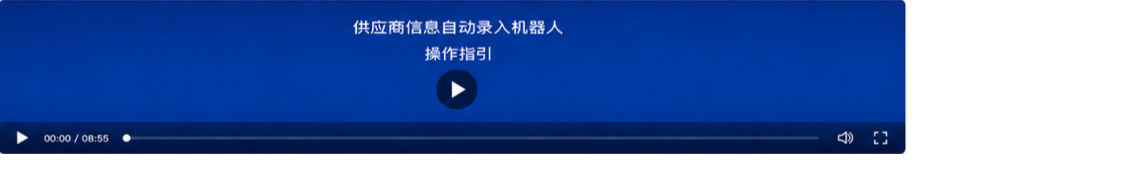
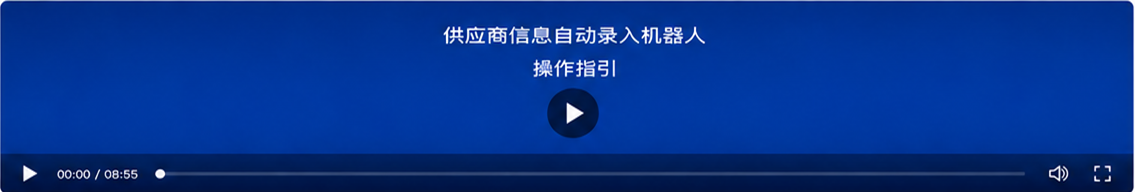
fix: calibrate narrow detail layout

diff --git a/src/style.css b/src/style.css
@@ -15,10 +15,10 @@ button, a { -webkit-tap-highlight-color: transparent; }
 img { display: block; max-width: 100%; }
 p { margin: 0; }
 
-.product-detail{padding:10px 16px 18px;color:#17304f}.product-detail .detail-crumb{height:32px;display:flex;align-items:center;gap:8px;color:#60758e;font-size:11px}.product-detail .detail-hero,.product-detail .detail-panel,.product-detail .detail-comment{background:#fff;border:1px solid #dce6f0;border-radius:7px}.product-detail .detail-hero{position:relative;min-height:245px;padding:24px 25px 13px}.product-detail .detail-hero-main{display:grid;grid-template-columns:86px minmax(0,1fr) 220px;gap:18px;align-items:start}.product-detail .detail-logo{width:82px;height:82px;object-fit:contain;border-radius:10px}.product-detail .detail-title h1{display:inline;margin:0 12px 0 0;color:#171f2e;font-size:21px}.product-detail mark{margin-right:7px;padding:4px 9px;color:#0870e8;background:#eaf3ff;border-radius:4px;font-size:9px}.product-detail .detail-title>p{margin:10px 0;color:#354c68;font-size:11px;line-height:1.8}.product-detail .detail-tags{display:flex;align-items:center;flex-wrap:wrap;gap:7px;margin-top:11px;font-size:11px}.product-detail .detail-hero-side{display:flex;flex-wrap:wrap;justify-content:flex-end;gap:10px}.product-detail .detail-hero-side button{height:34px;min-width:92px;padding:0 15px;color:#086de8;background:#fff;border:1px solid #086de8;border-radius:4px}.product-detail .detail-hero-side button:first-child{color:#fff;background:#086de8}.product-detail .detail-illustration{width:190px;height:112px;margin:8px 0 0 auto;object-fit:contain}.product-detail .detail-metrics{display:grid;grid-template-columns:repeat(7,1fr);gap:0;margin-top:17px;padding-top:14px;border-top:1px solid #e0e7ef}.product-detail .detail-metrics div{min-height:46px;display:grid;grid-template-columns:28px 1fr;align-items:center;padding:0 12px;border-right:1px solid #e1e8ef}.product-detail .detail-metrics div:last-child{border:0}.product-detail .detail-metrics b{grid-row:1/3;width:25px;height:25px;display:grid;place-items:center;color:#086de8;background:#eaf3ff;border-radius:6px;font-size:10px}.product-detail .detail-metrics dt{color:#657991;font-size:9px}.product-detail .detail-metrics dd{margin:0;font-size:11px}.product-detail .detail-panel{margin-top:10px;padding:12px 16px}.product-detail .detail-panel>h2{display:flex;align-items:center;margin:0 0 11px;color:#17304f;font-size:14px}.product-detail .detail-panel>h2::before{content:'';width:4px;height:14px;margin-right:9px;background:#0870ee;border-radius:3px}.product-detail .detail-panel>h2>a{margin-left:auto;color:#0870e8;font-size:10px;font-weight:400}.product-detail .info-grid{display:grid;grid-template-columns:repeat(2,1fr);border:1px solid #dce6ef}.product-detail .info-grid div{min-height:41px;display:grid;grid-template-columns:130px 1fr;align-items:center;border-bottom:1px solid #e0e7ef}.product-detail .info-grid div:nth-child(odd){border-right:1px solid #e0e7ef}.product-detail .info-grid dt{height:100%;display:flex;align-items:center;padding:0 12px;background:#f6f8fb;font-size:10px;font-weight:700}.product-detail .info-grid dd{margin:0;padding:8px 12px;color:#394f69;font-size:10px;line-height:1.6}.product-detail .feature-grid{display:grid;grid-template-columns:repeat(2,1fr);gap:13px 28px}.product-detail .feature-grid article{display:grid;grid-template-columns:31px 110px 1fr;align-items:center;min-height:35px;font-size:10px}.product-detail .feature-grid article>b:first-child{width:25px;height:25px;display:grid;place-items:center;color:#086de8;background:#eaf3ff;border-radius:5px}.product-detail .preview-wide{width:100%;height:auto;object-fit:contain}.product-detail .file-list{width:100%;border-collapse:collapse;font-size:10px}.product-detail .file-list th,.product-detail .file-list td{height:28px;padding:0 10px;border-bottom:1px solid #e3e9f0;text-align:left}.product-detail .file-list th{background:#f5f7fa}.product-detail .file-list a{color:#0870e8}.product-detail .training-row,.product-detail .related-row{display:grid;grid-template-columns:repeat(4,1fr);gap:12px}.product-detail .training-row article,.product-detail .related-row article{min-height:75px;display:flex;align-items:center;gap:11px;padding:8px;border:1px solid #dfe7ef;border-radius:5px}.product-detail .training-row img{width:72px;height:56px;object-fit:cover}.product-detail .related-row img{width:52px;height:52px;object-fit:contain}.product-detail .training-row h3,.product-detail .related-row h3{margin:0 0 5px;font-size:10px}.product-detail .training-row p,.product-detail .related-row p{color:#64778d;font-size:9px}.product-detail .detail-comment{position:sticky;bottom:0;z-index:2;display:grid;grid-template-columns:1fr auto;gap:12px;margin-top:10px;padding:12px 16px}.product-detail .detail-comment label{display:grid;grid-template-columns:auto 1fr;align-items:center;gap:14px;font-size:12px;font-weight:700}.product-detail .detail-comment input{height:35px;padding:0 12px;border:1px solid #d9e3ec;border-radius:4px}.product-detail .detail-comment button{padding:0 23px;color:#fff;background:#086de8;border:0;border-radius:4px}.product-detail button:focus-visible,.product-detail a:focus-visible,.product-detail input:focus-visible{outline:3px solid #ff9f1a;outline-offset:2px}
+.product-detail{padding:10px 16px 18px;color:#17304f}.product-detail .detail-crumb{height:32px;display:flex;align-items:center;gap:8px;color:#60758e;font-size:11px}.product-detail .detail-hero,.product-detail .detail-panel,.product-detail .detail-comment{background:#fff;border:1px solid #dce6f0;border-radius:7px}.product-detail .detail-hero{position:relative;min-height:245px;padding:24px 25px 13px}.product-detail .detail-hero-main{display:grid;grid-template-columns:86px minmax(0,1fr) 220px;gap:18px;align-items:start}.product-detail .detail-logo{width:82px;height:82px;object-fit:contain;border-radius:10px}.product-detail .detail-title h1{display:inline;margin:0 12px 0 0;color:#171f2e;font-size:21px}.product-detail mark{margin-right:7px;padding:4px 9px;color:#0870e8;background:#eaf3ff;border-radius:4px;font-size:9px}.product-detail .detail-title>p{margin:10px 0;color:#354c68;font-size:11px;line-height:1.8}.product-detail .detail-tags{display:flex;align-items:center;flex-wrap:wrap;gap:7px;margin-top:11px;font-size:11px}.product-detail .detail-hero-side{display:flex;flex-wrap:wrap;justify-content:flex-end;gap:10px}.product-detail .detail-hero-side button{height:34px;min-width:92px;padding:0 15px;color:#086de8;background:#fff;border:1px solid #086de8;border-radius:4px}.product-detail .detail-hero-side button:first-child{color:#fff;background:#086de8}.product-detail .detail-illustration{width:190px;height:112px;margin:8px 0 0 auto;object-fit:contain}.product-detail .detail-metrics{display:grid;grid-template-columns:repeat(7,1fr);gap:0;margin-top:17px;padding-top:14px;border-top:1px solid #e0e7ef}.product-detail .detail-metrics div{min-height:46px;display:grid;grid-template-columns:28px 1fr;align-items:center;padding:0 12px;border-right:1px solid #e1e8ef}.product-detail .detail-metrics div:last-child{border:0}.product-detail .detail-metrics b{grid-row:1/3;width:25px;height:25px;display:grid;place-items:center;color:#086de8;background:#eaf3ff;border-radius:6px;font-size:10px}.product-detail .detail-metrics dt{color:#657991;font-size:9px}.product-detail .detail-metrics dd{margin:0;font-size:11px}.product-detail .detail-panel{margin-top:10px;padding:12px 16px}.product-detail .detail-panel>h2{display:flex;align-items:center;margin:0 0 11px;color:#17304f;font-size:14px}.product-detail .detail-panel>h2::before{content:'';width:4px;height:14px;margin-right:9px;background:#0870ee;border-radius:3px}.product-detail .detail-panel>h2>a{margin-left:auto;color:#0870e8;font-size:10px;font-weight:400}.product-detail .info-grid{display:grid;grid-template-columns:repeat(2,1fr);border:1px solid #dce6ef}.product-detail .info-grid div{min-height:41px;display:grid;grid-template-columns:130px 1fr;align-items:center;border-bottom:1px solid #e0e7ef}.product-detail .info-grid div:nth-child(odd){border-right:1px solid #e0e7ef}.product-detail .info-grid dt{height:100%;display:flex;align-items:center;padding:0 12px;background:#f6f8fb;font-size:10px;font-weight:700}.product-detail .info-grid dd{margin:0;padding:8px 12px;color:#394f69;font-size:10px;line-height:1.6}.product-detail .feature-grid{display:grid;grid-template-columns:repeat(2,1fr);gap:13px 28px}.product-detail .feature-grid article{display:grid;grid-template-columns:31px 110px 1fr;align-items:center;min-height:35px;font-size:10px}.product-detail .feature-grid article>b:first-child{width:25px;height:25px;display:grid;place-items:center;color:#086de8;background:#eaf3ff;border-radius:5px}.product-detail .preview-wide{width:100%;height:auto;object-fit:contain}.product-detail .file-list{width:100%;table-layout:fixed;border-collapse:collapse;font-size:10px}.product-detail .file-list th,.product-detail .file-list td{height:28px;padding:0 10px;border-bottom:1px solid #e3e9f0;text-align:left}.product-detail .file-list th{background:#f5f7fa}.product-detail .file-list a{color:#0870e8}.product-detail .training-row,.product-detail .related-row{display:grid;grid-template-columns:repeat(4,1fr);gap:12px}.product-detail .training-row article,.product-detail .related-row article{min-width:0;min-height:75px;display:flex;align-items:center;gap:11px;padding:8px;border:1px solid #dfe7ef;border-radius:5px}.product-detail .training-row img{width:72px;height:56px;object-fit:cover}.product-detail .related-row img{width:52px;height:52px;object-fit:contain}.product-detail .training-row h3,.product-detail .related-row h3{margin:0 0 5px;font-size:10px;overflow-wrap:anywhere}.product-detail .training-row p,.product-detail .related-row p{color:#64778d;font-size:9px}.product-detail .detail-comment{position:sticky;bottom:0;z-index:2;display:grid;grid-template-columns:1fr auto;gap:12px;margin-top:10px;padding:12px 16px}.product-detail .detail-comment label{display:grid;grid-template-columns:auto minmax(0,1fr);align-items:center;gap:14px;font-size:12px;font-weight:700}.product-detail .detail-comment input{min-width:0;height:35px;padding:0 12px;border:1px solid #d9e3ec;border-radius:4px}.product-detail .detail-comment button{padding:0 23px;color:#fff;background:#086de8;border:0;border-radius:4px}.product-detail button:focus-visible,.product-detail a:focus-visible,.product-detail input:focus-visible{outline:3px solid #ff9f1a;outline-offset:2px}
 
 .product-detail .detail-hero-main{grid-template-columns:86px minmax(0,1fr) 330px}
-@media(min-width:761px) and (max-width:1000px){.product-detail .detail-hero-main{grid-template-columns:72px minmax(0,1fr) 240px}.product-detail .detail-hero-side button{min-width:68px;padding-inline:8px;font-size:10px}}
+@media(min-width:761px) and (max-width:1000px){.product-detail{padding-inline:10px}.product-detail .detail-hero-main{grid-template-columns:72px minmax(0,1fr) 240px}.product-detail .detail-hero-side button{min-width:68px;padding-inline:8px;font-size:10px}.product-detail .detail-metrics div{min-width:0;padding:0 4px}.product-detail .detail-metrics dt,.product-detail .detail-metrics dd{overflow-wrap:anywhere}.product-detail .info-grid div{min-width:0;grid-template-columns:115px minmax(0,1fr)}.product-detail .info-grid dd{overflow-wrap:anywhere}}
 .rpa-detail .detail-hero{min-height:225px;padding:14px 18px 8px}
 .rpa-detail .detail-hero-main{grid-template-columns:80px minmax(0,1fr) 330px;gap:14px}
 .rpa-detail .detail-hero-side button{height:29px}

diff --git a/src/components/ExhibitionShell.vue b/src/components/ExhibitionShell.vue
@@ -109,6 +109,7 @@ main{min-width:0;min-height:0;overflow-y:auto;background:#fff;outline:none}.sr-o
 @media(max-width:1420px){.brand{flex-basis:220px}.primary-nav{overflow-x:auto;scrollbar-width:thin}.primary-nav a{flex:0 0 auto;min-width:72px;padding-inline:5px}.top-actions{flex-basis:205px}.top-user small{display:none}}@media(max-width:1100px){.primary-nav{overflow-x:auto}.page-frame{grid-template-columns:220px minmax(0,1fr)}.sidebar{overflow-y:auto}}@media(max-width:760px){.topbar{height:auto;min-height:63px;flex-wrap:wrap;padding-block:7px}.brand{flex:1}.top-actions{flex-basis:auto}.primary-nav{order:3;width:100%;overflow-x:auto}.primary-nav a{flex:0 0 auto;height:44px}.page-frame,.standard-shell .page-frame{grid-template-columns:1fr}.sidebar{min-height:auto;border-right:0;border-bottom:1px solid #dce4ed}.catalogue-group,.scene-search{display:none}.simple-nav{display:flex;overflow-x:auto;padding-top:0}.simple-nav a{flex:0 0 auto;height:48px;padding:0 14px;border-left:0;border-bottom:3px solid transparent}.simple-nav a[aria-current='page']{border-bottom-color:#096ef0}.simple-nav a.sub{padding-left:14px}}
 @media(min-width:761px) and (max-width:940px){.page-frame,.standard-shell .page-frame{grid-template-columns:150px minmax(0,1fr)}.catalogue-group{padding-inline:9px}.scene-search{padding-inline:10px}}
 @media(min-width:941px) and (max-width:1600px){.page-frame,.standard-shell .page-frame{grid-template-columns:180px minmax(0,1fr)}.catalogue-group{padding-inline:11px}.scene-search{padding-inline:13px}}
+@media(min-width:761px) and (max-width:1000px){.topbar{padding-inline:4px}.brand{flex-basis:190px;font-size:12px}.brand img{width:105px;height:36px;padding-right:8px;margin-right:8px}.primary-nav{overflow:hidden}.primary-nav a{min-width:0;flex:1 1 0;gap:2px;padding-inline:1px;font-size:8px}.nav-glyph{width:14px;height:16px}.top-actions{flex-basis:105px;gap:4px}.action-link{width:20px}.action-link>img{width:18px;height:18px}.top-user{gap:4px;padding-left:4px}.top-user>img{width:26px;height:26px}.top-user strong{font-size:9px}}
 .certification-shell .topbar{height:90px}.certification-shell .page-frame{grid-template-columns:242px minmax(0,1fr)}
 main{background:#f7f9fc}
 </style>

diff --git a/tools/build-phase-1-asset-manifest.py b/tools/build-phase-1-asset-manifest.py
@@ -26,7 +26,15 @@ COMPONENT_PAGES = {
     'TalentPeoplePage.vue': ['28'], 'TalentProjectsPage.vue': ['29'], 'TalentProgressPage.vue': ['30'],
 }
 CATALOGUE_PAGES = ['01', *[f'{value:02d}' for value in range(7, 18)]]
-COMPOSITE_REVIEW = {'ai-training.png', 'dataset-training.png', 'rpa-video.png', 'work-video.png'}
+COMPOSITE_REVIEW = {'ai-training.png', 'dataset-training.png', 'work-video.png'}
+PINNED_SOURCES = {
+    'rpa-video.png': {
+        'reference': '08-应用详情页-RPA.png',
+        'referenceSha256': PAGE_BY_ID['16']['referenceFileSha256'],
+        'rect': [218, 513, 1135, 192],
+        'method': 'exact-atomic-crop',
+    },
+}
 
 
 def load_rgb(path: Path) -> np.ndarray:
@@ -104,7 +112,9 @@ for index, asset_name in enumerate(sorted(uses_by_asset), 1):
     rgb = load_rgb(path)
     preferred_pages = list(sorted(uses_by_asset[asset_name]))
     search_pages = preferred_pages + [page_id for page_id in PAGE_BY_ID if page_id not in preferred_pages]
-    source = next((match for page_id in search_pages if (match := locate(rgb, page_id))), None)
+    source = PINNED_SOURCES.get(asset_name)
+    if source is None:
+        source = next((match for page_id in search_pages if (match := locate(rgb, page_id))), None)
     if source is None:
         candidates = [locate_candidate(rgb, page_id) for page_id in preferred_pages]
         candidates = [candidate for candidate in candidates if candidate is not None]
@@ -124,7 +134,10 @@ for index, asset_name in enumerate(sorted(uses_by_asset), 1):
         uses.append({'id': f'AU-{len(uses) + 1:04d}', 'pageId': f'MP-{page_id}', 'assetId': asset_id, 'visibleUse': 'runtime-reference'})
 
 mapped = sum(asset['source'] is not None for asset in assets)
-exact_mapped = sum(asset['source'] is not None and asset['source'].get('method') is None for asset in assets)
+exact_mapped = sum(
+    asset['source'] is not None and asset['source'].get('method') in (None, 'exact-atomic-crop')
+    for asset in assets
+)
 manifest = {
     'schema': 'xlt-mp-as-au-v1', 'result': 'failed', 'globalVisibleUnmapped': 'unknown_nonzero',
     'technicalMapping': {'referencedAssetCount': len(assets), 'sourceCoordinateMapped': mapped, 'exactSourceCoordinateMapped': exact_mapped, 'candidateSourceCoordinateMapped': mapped - exact_mapped, 'coverage': mapped / len(assets) if assets else 0},
